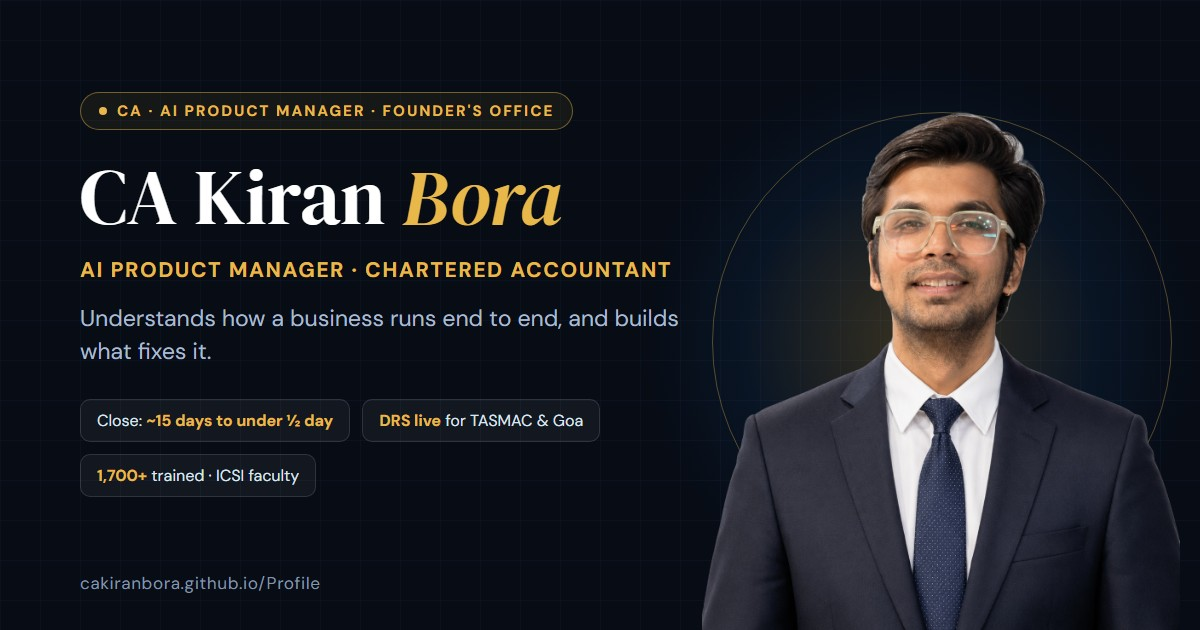
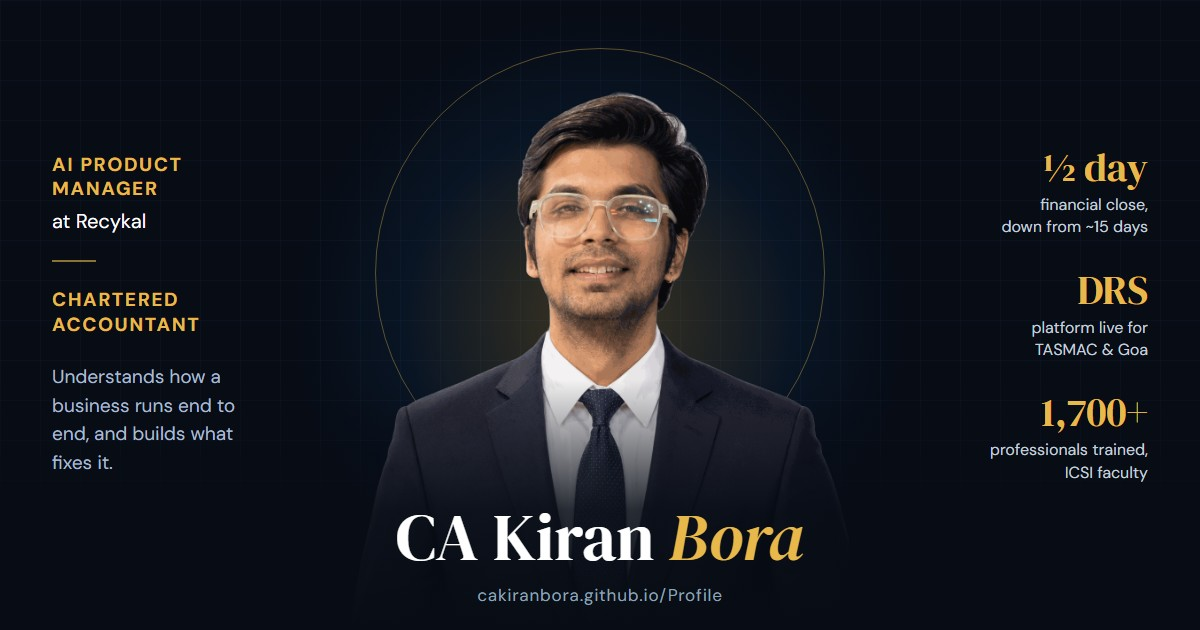
Full site sync: centred share card, clean URLs, single page load
- New social card: photo and name in the centre square so the WhatsApp
  desktop thumbnail shows face and full name; image URL ?v=2 to refresh caches
- Repo now mirrors Profile_website_publish exactly

diff --git a/404.html b/404.html
@@ -22,14 +22,14 @@
 <meta property="og:locale" content="en_IN">
 <meta property="profile:first_name" content="Kiran">
 <meta property="profile:last_name" content="Bora">
-<meta property="og:image" content="https://cakiranbora.github.io/Profile/social-card.jpg">
-<meta property="og:image:secure_url" content="https://cakiranbora.github.io/Profile/social-card.jpg">
+<meta property="og:image" content="https://cakiranbora.github.io/Profile/social-card.jpg?v=2">
+<meta property="og:image:secure_url" content="https://cakiranbora.github.io/Profile/social-card.jpg?v=2">
 <meta property="og:image:type" content="image/jpeg">
 <meta property="og:image:width" content="1200">
 <meta property="og:image:height" content="630">
 <meta property="og:image:alt" content="CA Kiran Bora, AI Product Manager and Chartered Accountant">
 <meta name="twitter:card" content="summary_large_image">
-<meta name="twitter:image" content="https://cakiranbora.github.io/Profile/social-card.jpg">
+<meta name="twitter:image" content="https://cakiranbora.github.io/Profile/social-card.jpg?v=2">
 <meta name="twitter:image:alt" content="CA Kiran Bora, AI Product Manager and Chartered Accountant">
 <meta name="twitter:title" content="CA Kiran Bora | AI Product Manager · Chartered Accountant · Founder&#39;s Office">
 <meta name="twitter:description" content="CA Kiran Bora: Chartered Accountant and AI Product Manager at Recykal. Fraud prevention and finance logic for Deposit Return Schemes; previously finance transformation and Founder&#39;s Office work for CEOs and CFOs at Contetra.">

diff --git a/impact.html b/impact.html
@@ -23,14 +23,14 @@
 <meta property="profile:first_name" content="Kiran">
 <meta property="profile:last_name" content="Bora">
 <meta property="og:url" content="https://cakiranbora.github.io/Profile/impact">
-<meta property="og:image" content="https://cakiranbora.github.io/Profile/social-card.jpg">
-<meta property="og:image:secure_url" content="https://cakiranbora.github.io/Profile/social-card.jpg">
+<meta property="og:image" content="https://cakiranbora.github.io/Profile/social-card.jpg?v=2">
+<meta property="og:image:secure_url" content="https://cakiranbora.github.io/Profile/social-card.jpg?v=2">
 <meta property="og:image:type" content="image/jpeg">
 <meta property="og:image:width" content="1200">
 <meta property="og:image:height" content="630">
 <meta property="og:image:alt" content="CA Kiran Bora, AI Product Manager and Chartered Accountant">
 <meta name="twitter:card" content="summary_large_image">
-<meta name="twitter:image" content="https://cakiranbora.github.io/Profile/social-card.jpg">
+<meta name="twitter:image" content="https://cakiranbora.github.io/Profile/social-card.jpg?v=2">
 <meta name="twitter:image:alt" content="CA Kiran Bora, AI Product Manager and Chartered Accountant">
 <meta name="twitter:title" content="Impact &amp; Case Studies | CA Kiran Bora">
 <meta name="twitter:description" content="Case studies: close cut from ~15 days to under half a day, O&amp;M billing from 25-30 days to 7.">

diff --git a/index.html b/index.html
@@ -23,14 +23,14 @@
 <meta property="profile:first_name" content="Kiran">
 <meta property="profile:last_name" content="Bora">
 <meta property="og:url" content="https://cakiranbora.github.io/Profile/">
-<meta property="og:image" content="https://cakiranbora.github.io/Profile/social-card.jpg">
-<meta property="og:image:secure_url" content="https://cakiranbora.github.io/Profile/social-card.jpg">
+<meta property="og:image" content="https://cakiranbora.github.io/Profile/social-card.jpg?v=2">
+<meta property="og:image:secure_url" content="https://cakiranbora.github.io/Profile/social-card.jpg?v=2">
 <meta property="og:image:type" content="image/jpeg">
 <meta property="og:image:width" content="1200">
 <meta property="og:image:height" content="630">
 <meta property="og:image:alt" content="CA Kiran Bora, AI Product Manager and Chartered Accountant">
 <meta name="twitter:card" content="summary_large_image">
-<meta name="twitter:image" content="https://cakiranbora.github.io/Profile/social-card.jpg">
+<meta name="twitter:image" content="https://cakiranbora.github.io/Profile/social-card.jpg?v=2">
 <meta name="twitter:image:alt" content="CA Kiran Bora, AI Product Manager and Chartered Accountant">
 <meta name="twitter:title" content="CA Kiran Bora | AI Product Manager at Recykal">
 <meta name="twitter:description" content="Helps CFOs and CXOs fix processes end to end, across finance, operations and technology.">

diff --git a/what-i-do.html b/what-i-do.html
@@ -23,14 +23,14 @@
 <meta property="profile:first_name" content="Kiran">
 <meta property="profile:last_name" content="Bora">
 <meta property="og:url" content="https://cakiranbora.github.io/Profile/what-i-do">
-<meta property="og:image" content="https://cakiranbora.github.io/Profile/social-card.jpg">
-<meta property="og:image:secure_url" content="https://cakiranbora.github.io/Profile/social-card.jpg">
+<meta property="og:image" content="https://cakiranbora.github.io/Profile/social-card.jpg?v=2">
+<meta property="og:image:secure_url" content="https://cakiranbora.github.io/Profile/social-card.jpg?v=2">
 <meta property="og:image:type" content="image/jpeg">
 <meta property="og:image:width" content="1200">
 <meta property="og:image:height" content="630">
 <meta property="og:image:alt" content="CA Kiran Bora, AI Product Manager and Chartered Accountant">
 <meta name="twitter:card" content="summary_large_image">
-<meta name="twitter:image" content="https://cakiranbora.github.io/Profile/social-card.jpg">
+<meta name="twitter:image" content="https://cakiranbora.github.io/Profile/social-card.jpg?v=2">
 <meta name="twitter:image:alt" content="CA Kiran Bora, AI Product Manager and Chartered Accountant">
 <meta name="twitter:title" content="What I Do | CA Kiran Bora">
 <meta name="twitter:description" content="Products from business problems: DRS fraud and settlement, finance systems and CXO dashboards.">

diff --git a/beyond.html b/beyond.html
@@ -23,14 +23,14 @@
 <meta property="profile:first_name" content="Kiran">
 <meta property="profile:last_name" content="Bora">
 <meta property="og:url" content="https://cakiranbora.github.io/Profile/beyond">
-<meta property="og:image" content="https://cakiranbora.github.io/Profile/social-card.jpg">
-<meta property="og:image:secure_url" content="https://cakiranbora.github.io/Profile/social-card.jpg">
+<meta property="og:image" content="https://cakiranbora.github.io/Profile/social-card.jpg?v=2">
+<meta property="og:image:secure_url" content="https://cakiranbora.github.io/Profile/social-card.jpg?v=2">
 <meta property="og:image:type" content="image/jpeg">
 <meta property="og:image:width" content="1200">
 <meta property="og:image:height" content="630">
 <meta property="og:image:alt" content="CA Kiran Bora, AI Product Manager and Chartered Accountant">
 <meta name="twitter:card" content="summary_large_image">
-<meta name="twitter:image" content="https://cakiranbora.github.io/Profile/social-card.jpg">
+<meta name="twitter:image" content="https://cakiranbora.github.io/Profile/social-card.jpg?v=2">
 <meta name="twitter:image:alt" content="CA Kiran Bora, AI Product Manager and Chartered Accountant">
 <meta name="twitter:title" content="Beyond Work | CA Kiran Bora">
 <meta name="twitter:description" content="ICSI AI4CS faculty, 1,700+ professionals trained, portrait artist and district-level athlete.">

diff --git a/career.html b/career.html
@@ -23,14 +23,14 @@
 <meta property="profile:first_name" content="Kiran">
 <meta property="profile:last_name" content="Bora">
 <meta property="og:url" content="https://cakiranbora.github.io/Profile/career">
-<meta property="og:image" content="https://cakiranbora.github.io/Profile/social-card.jpg">
-<meta property="og:image:secure_url" content="https://cakiranbora.github.io/Profile/social-card.jpg">
+<meta property="og:image" content="https://cakiranbora.github.io/Profile/social-card.jpg?v=2">
+<meta property="og:image:secure_url" content="https://cakiranbora.github.io/Profile/social-card.jpg?v=2">
 <meta property="og:image:type" content="image/jpeg">
 <meta property="og:image:width" content="1200">
 <meta property="og:image:height" content="630">
 <meta property="og:image:alt" content="CA Kiran Bora, AI Product Manager and Chartered Accountant">
 <meta name="twitter:card" content="summary_large_image">
-<meta name="twitter:image" content="https://cakiranbora.github.io/Profile/social-card.jpg">
+<meta name="twitter:image" content="https://cakiranbora.github.io/Profile/social-card.jpg?v=2">
 <meta name="twitter:image:alt" content="CA Kiran Bora, AI Product Manager and Chartered Accountant">
 <meta name="twitter:title" content="Career | CA Kiran Bora">
 <meta name="twitter:description" content="Recykal, Contetra, IDFC FIRST Bank and CA articleship: from audit and banking to AI product.">

diff --git a/resume.html b/resume.html
@@ -23,14 +23,14 @@
 <meta property="profile:first_name" content="Kiran">
 <meta property="profile:last_name" content="Bora">
 <meta property="og:url" content="https://cakiranbora.github.io/Profile/resume">
-<meta property="og:image" content="https://cakiranbora.github.io/Profile/social-card.jpg">
-<meta property="og:image:secure_url" content="https://cakiranbora.github.io/Profile/social-card.jpg">
+<meta property="og:image" content="https://cakiranbora.github.io/Profile/social-card.jpg?v=2">
+<meta property="og:image:secure_url" content="https://cakiranbora.github.io/Profile/social-card.jpg?v=2">
 <meta property="og:image:type" content="image/jpeg">
 <meta property="og:image:width" content="1200">
 <meta property="og:image:height" content="630">
 <meta property="og:image:alt" content="CA Kiran Bora, AI Product Manager and Chartered Accountant">
 <meta name="twitter:card" content="summary_large_image">
-<meta name="twitter:image" content="https://cakiranbora.github.io/Profile/social-card.jpg">
+<meta name="twitter:image" content="https://cakiranbora.github.io/Profile/social-card.jpg?v=2">
 <meta name="twitter:image:alt" content="CA Kiran Bora, AI Product Manager and Chartered Accountant">
 <meta name="twitter:title" content="Resume | CA Kiran Bora">
 <meta name="twitter:description" content="View or download the two-page resume: Chartered Accountant and AI Product Manager.">

diff --git a/connect.html b/connect.html
@@ -23,14 +23,14 @@
 <meta property="profile:first_name" content="Kiran">
 <meta property="profile:last_name" content="Bora">
 <meta property="og:url" content="https://cakiranbora.github.io/Profile/connect">
-<meta property="og:image" content="https://cakiranbora.github.io/Profile/social-card.jpg">
-<meta property="og:image:secure_url" content="https://cakiranbora.github.io/Profile/social-card.jpg">
+<meta property="og:image" content="https://cakiranbora.github.io/Profile/social-card.jpg?v=2">
+<meta property="og:image:secure_url" content="https://cakiranbora.github.io/Profile/social-card.jpg?v=2">
 <meta property="og:image:type" content="image/jpeg">
 <meta property="og:image:width" content="1200">
 <meta property="og:image:height" content="630">
 <meta property="og:image:alt" content="CA Kiran Bora, AI Product Manager and Chartered Accountant">
 <meta name="twitter:card" content="summary_large_image">
-<meta name="twitter:image" content="https://cakiranbora.github.io/Profile/social-card.jpg">
+<meta name="twitter:image" content="https://cakiranbora.github.io/Profile/social-card.jpg?v=2">
 <meta name="twitter:image:alt" content="CA Kiran Bora, AI Product Manager and Chartered Accountant">
 <meta name="twitter:title" content="Connect | CA Kiran Bora">
 <meta name="twitter:description" content="Contact CA Kiran Bora by email, WhatsApp or LinkedIn.">
